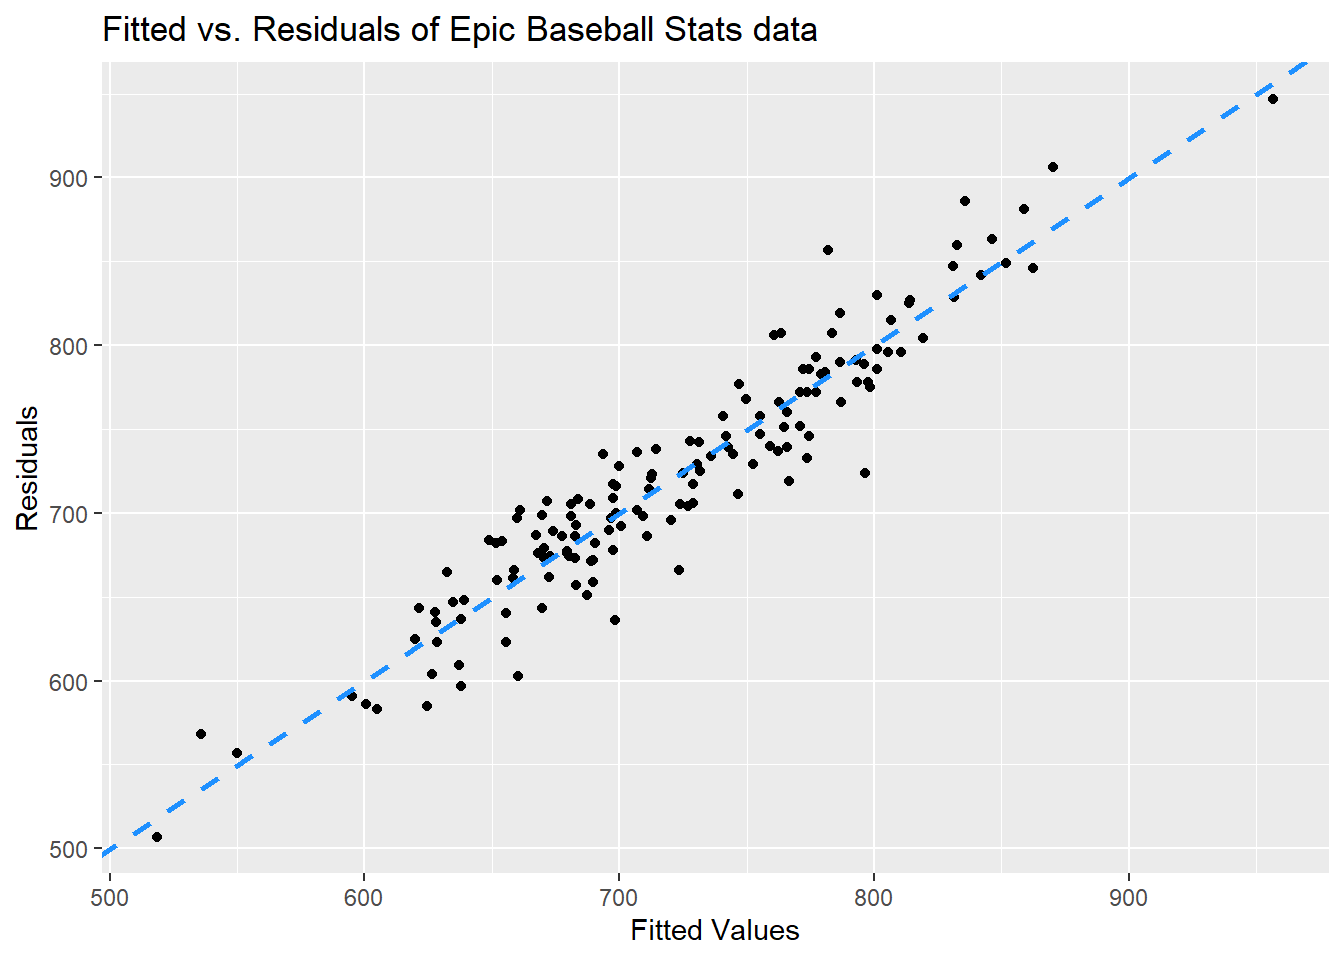
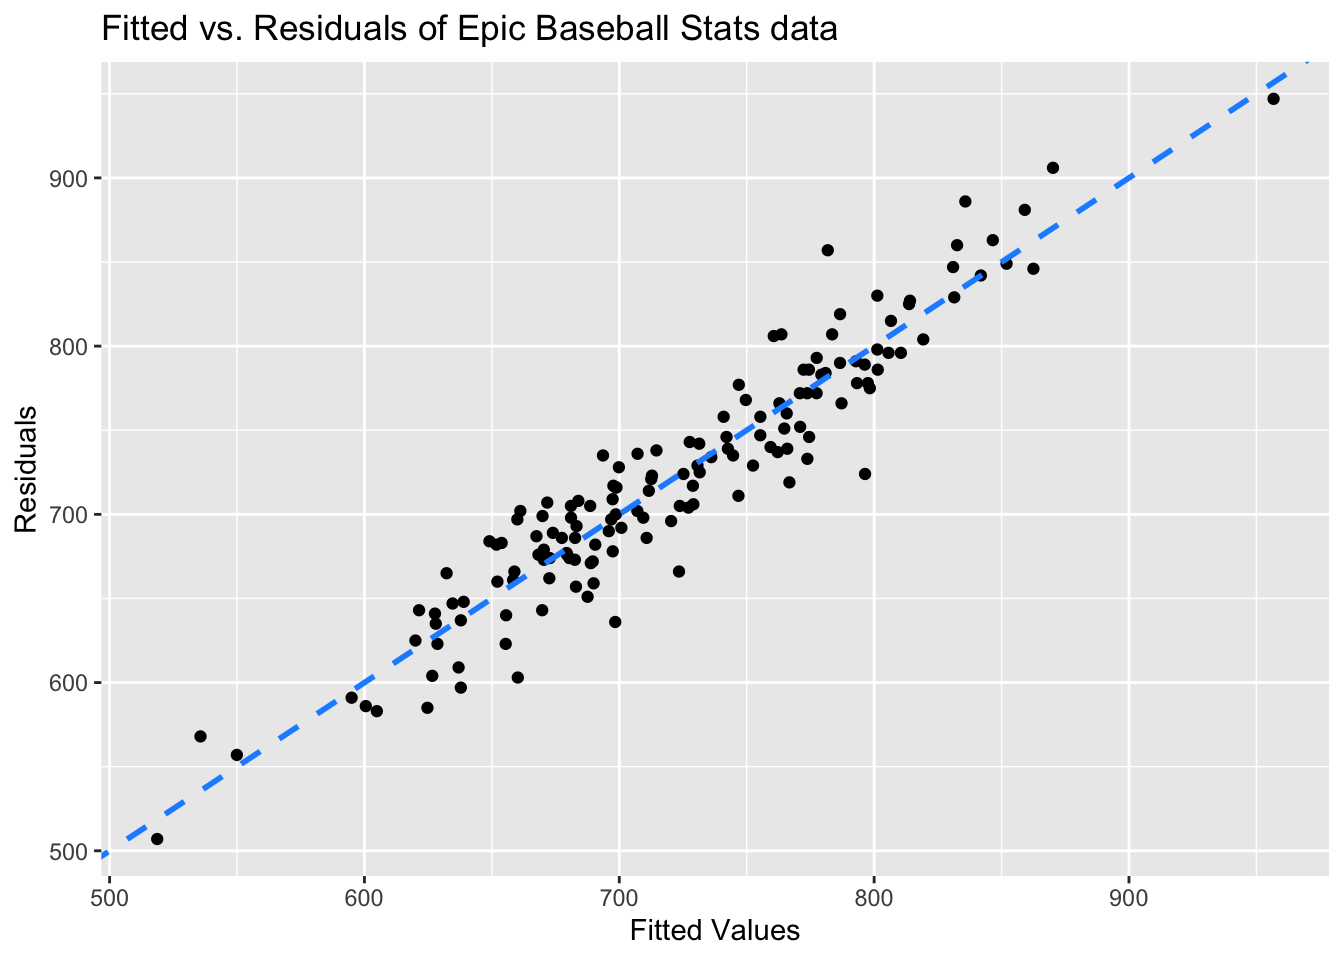
changed output dir

diff --git a/index.html b/index.html
@@ -78,7 +78,7 @@ pre > code.sourceCode > span > a:first-child::before { text-decoration: underlin
 <link href="index_files/libs/quarto-html/quarto-syntax-highlighting-63b5708e65d6cd79cd7618c58d0c21e7.css" rel="stylesheet" id="quarto-text-highlighting-styles">
 <script src="index_files/libs/bootstrap/bootstrap.min.js"></script>
 <link href="index_files/libs/bootstrap/bootstrap-icons.css" rel="stylesheet">
-<link href="index_files/libs/bootstrap/bootstrap-943e08653f4bd8ac7ab9292bfc489267.min.css" rel="stylesheet" append-hash="true" id="quarto-bootstrap" data-mode="light">
+<link href="index_files/libs/bootstrap/bootstrap-7a1ba01e1618e08d8f307002997fc2d6.min.css" rel="stylesheet" append-hash="true" id="quarto-bootstrap" data-mode="light">
 
 
 </head>
